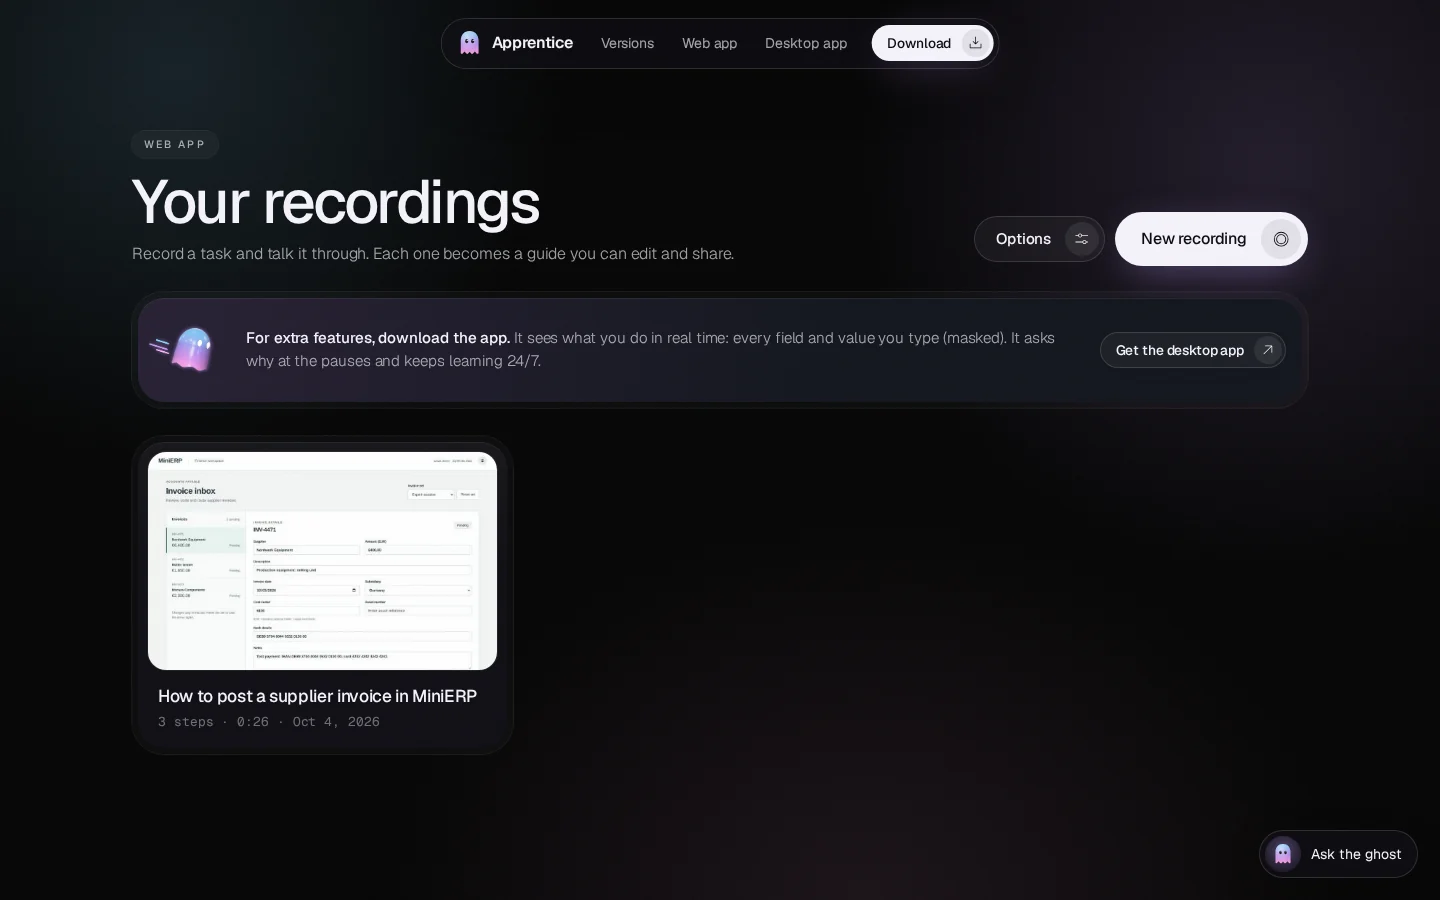
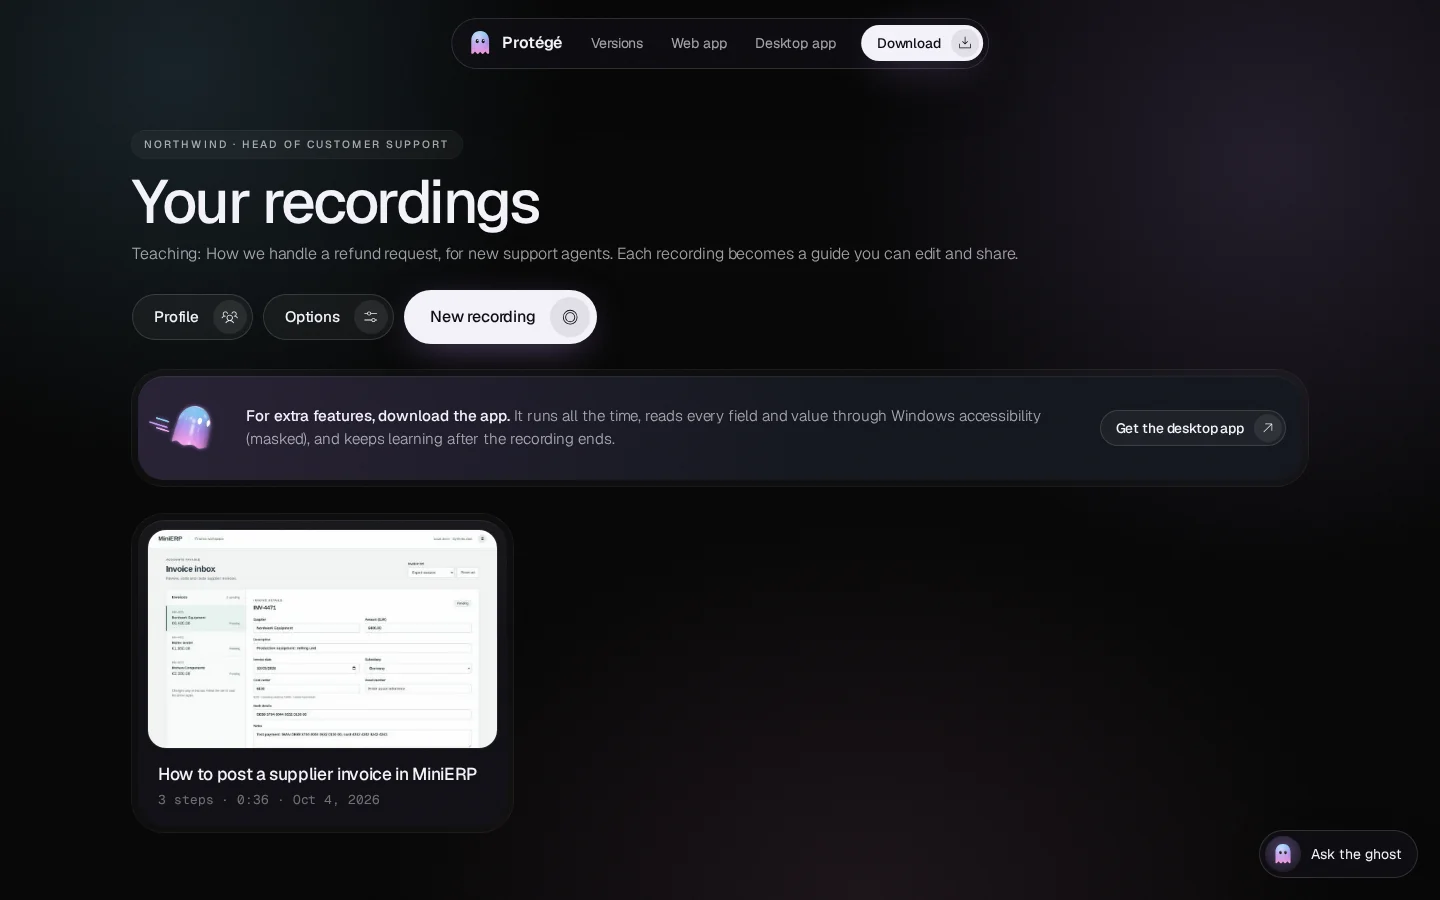
docs: Protégé README, voice setup on Vercel, new flow and agent prompt
Claude-Session: https://claude.ai/code/session_01SDNva6W46X8J2TXJH2Ka4E

diff --git a/README.md b/README.md
@@ -1,12 +1,12 @@
 <div align="center">
 
-<img src="web/assets/hero.webp" width="190" alt="The Apprentice ghost" />
+<img src="web/assets/hero.webp" width="190" alt="The Protégé ghost" />
 
-# Apprentice
+# Protégé
 
-**Show it once. The apprentice remembers.**
+**Show it once. Protégé remembers.**
 
-An AI apprentice for Windows. It learns how your best people work, asks *why* at the right moments,<br />
+AI onboarding that learns from your experts. It learns how your best people work, asks *why* at the right moments,<br />
 and coaches new hires on their own screen, without ever reading a password.
 
 [Website](#the-website) · [Download](#make-the-download-button-work) · [Quick start](#quick-start-windows) · [How it works](#how-it-works) · [Privacy](#privacy)
@@ -21,7 +21,7 @@ and coaches new hires on their own screen, without ever reading a password.
 
 <br />
 
-<img src="docs/images/website-hero.webp" alt="The Apprentice website" width="100%" />
+<img src="docs/images/website-hero.webp" alt="The Protégé website" width="100%" />
 
 </div>
 
@@ -29,7 +29,7 @@ and coaches new hires on their own screen, without ever reading a password.
 
 ## What it does
 
-When an expert leaves, what they knew leaves with them. Apprentice sits next to them while they do their normal work, writes the steps down, asks about the reasons behind them, and then passes all of it on to the next person.
+When an expert leaves, what they knew leaves with them. Protégé sits next to them while they do their normal work, writes the steps down, asks about the reasons behind them, and then passes all of it on to the next person.
 
 <table>
   <tr>
@@ -55,16 +55,19 @@ And it keeps learning: in the background it builds an **App Profile** for every 
 
 ## Web or desktop
 
-There are two ways in. The **website** works in any Chrome or Edge, with nothing to install. The **desktop app** is the full apprentice.
+There are two ways in. The **website** works in any Chrome or Edge, with nothing to install. The **desktop app** is the full Protégé.
+
+- **Web app: traditional onboarding.** You record a task. Protégé asks a question out loud whenever something needs explaining, and at the end it sums up what it saw and asks a few last questions.
+- **Desktop app: onboarding that never stops.** It runs all the time, reads every task through Windows accessibility, and keeps training itself, so it catches what an expert forgets to explain. This is where we pushed the idea to its limit, and it's only possible because it runs on the computer, not in a browser.
 
 | | Website | Desktop app |
 |---|:---:|:---:|
 | A screenshot every time the screen changes | ✓ | ✓ |
+| Asks questions out loud while you record, then an overview and last questions | ✓ | ✓ |
 | Video with your voice, your words next to each step | ✓ | ✓ |
-| Field names and the values you typed | | ✓ |
-| Clicks and keys as named steps | | ✓ |
+| Runs all the time, not only while you record | | ✓ |
+| Field names, typed values, clicks and keys through Windows accessibility | | ✓ |
 | Passwords never read; cards, IBANs and keys masked | | ✓ |
-| Asks *why* at natural pauses, by voice | | ✓ |
 | Work Map of decisions and rules | | ✓ |
 | Learns every app 24/7 and coaches new hires | | ✓ |
 
@@ -85,7 +88,7 @@ A web page only gets the pixels of the screen you share. It can't see into other
 
 You need **Windows 10 or 11**, **[Node.js 20+](https://nodejs.org/en/download)** and **[Python 3.11+](https://www.python.org/downloads/windows/)** (tick *Add python.exe to PATH* when installing).
 
-1. **Get the files.** Download `Apprentice-Windows.zip` from the website and unzip it, or clone this repository.
+1. **Get the files.** Download `Protege-Windows.zip` from the website and unzip it, or clone this repository.
 2. **Double-click `start.bat`.** The first run installs the app's parts (a few minutes). After that it starts straight away.
 3. **Add your keys.** Notepad opens `app\.env` the first time. Fill it in, save, close Notepad, and the ghost appears.
 
@@ -103,7 +106,7 @@ You need **Windows 10 or 11**, **[Node.js 20+](https://nodejs.org/en/download)**
 cd sidecar; python -m pip install -r requirements.txt     # once
 cd ..\app; npm install                                     # once
 copy .env.example .env; notepad .env                       # once: add your keys
-npm run dev                                                # start Apprentice
+npm run dev                                                # start Protégé
 ```
 
 Replay a recorded session instead of watching the screen: `$env:OBSERVER_FAKE="..\fixtures\expert-session.jsonl"; npm run dev`.
@@ -116,7 +119,7 @@ The website's **Download for Windows** button links to whatever `downloadUrl` sa
 
 ### A. Serve the zip from the website (works with a private repository)
 
-The button already points at `downloads/Apprentice-Windows.zip`, a file next to the website. Build that file, commit it, and every deploy includes it.
+The button already points at `downloads/Protege-Windows.zip`, a file next to the website. Build that file, commit it, and every deploy includes it.
 
 1. Build the zip from the last commit (it contains `app`, `sidecar`, `config`, `shared`, `start.bat` and this README):
 
@@ -130,7 +133,7 @@ The button already points at `downloads/Apprentice-Windows.zip`, a file next to 
 2. Commit and push it:
 
    ```bash
-   git add web/downloads/Apprentice-Windows.zip
+   git add web/downloads/Protege-Windows.zip
    git commit -m "web: refresh the download"
    git push
    ```
@@ -141,11 +144,11 @@ The button already points at `downloads/Apprentice-Windows.zip`, a file next to 
 
 1. Make the repository public: **Settings → General → Danger Zone → Change visibility**. Links into a private repository show visitors a 404 page.
 2. Build the zip with the script above (you don't need to commit it this time).
-3. On the repository page, open **Releases → Draft a new release**. Create a tag such as `v1.0.0`, give it a title, and drag `web/downloads/Apprentice-Windows.zip` into the assets box. Click **Publish release**.
+3. On the repository page, open **Releases → Draft a new release**. Create a tag such as `v1.0.0`, give it a title, and drag `web/downloads/Protege-Windows.zip` into the assets box. Click **Publish release**.
 4. Point the button at the newest release. In `web/config.js`:
 
    ```js
-   downloadUrl: 'https://github.com/Ridwaan279/HackNation-7/releases/latest/download/Apprentice-Windows.zip',
+   downloadUrl: 'https://github.com/Ridwaan279/HackNation-7/releases/latest/download/Protege-Windows.zip',
    ```
 
    `releases/latest/download/<file>` always serves the newest release, so the link never needs changing again. Keep the file name the same in every release.
@@ -159,14 +162,14 @@ The button already points at `downloads/Apprentice-Windows.zip`, a file next to 
 
 [`web/`](web) is a static site: plain HTML, CSS and JavaScript with no build step.
 
-1. **Kickstart.** The front page is the ghost and one button. Press **Kickstart** and the ghost starts talking.
+1. **Kickstart.** The front page is the ghost and one button. Press **Kickstart** and Protégé starts talking.
 2. **Choose.** It explains the two versions side by side and recommends the desktop app, which has the glowing border:
-   - **Web app:** records your screen and voice, takes a screenshot whenever the screen changes, and writes down what you say.
-   - **Desktop app:** sees what you're doing in real time (every field, click and typed value, masked), asks why at the pauses, and keeps learning.
-3. **Overview.** Whichever you pick, the ghost gives a short overview of that version.
+   - **Web app:** traditional onboarding. You record, it asks questions, then sums up and asks what's missing.
+   - **Desktop app:** always on. It reads every task through Windows accessibility and keeps training itself.
+3. **Overview.** Whichever you pick, Protégé explains that version. Switch between them and it starts that explanation again. The desktop page ends with the moonshot: why the idea only reaches its limit as an app.
 4. **Then:**
-   - **Web app:** the dashboard opens. Start a recording, then open, edit, download or delete your guides.
-   - **Desktop app:** the page shows the download button and the three install steps.
+   - **Web app:** a short onboarding (company, your role, what you're teaching, who it's for), then the dashboard. While you record, Protégé asks out loud at natural pauses and writes your answers next to the step. When you stop, it gives an overview and asks a few last questions, then opens the guide.
+   - **Desktop app:** the download button and the three install steps. The app asks the same onboarding questions on first start.
 
 <table>
   <tr>
@@ -197,6 +200,14 @@ cd web && python -m http.server 5173     # open http://localhost:5173 in Chrome 
 
 Every push to `main` redeploys automatically. All three serve HTTPS, which screen sharing requires.
 
+**Protégé's voice.** On Vercel, the site speaks with a natural ElevenLabs voice through [`web/api/tts.js`](web/api/tts.js), a small serverless function that keeps the key on the server:
+
+1. In Vercel, open the project → **Settings → Environment Variables**.
+2. Add `ELEVENLABS_API_KEY` (the key needs the **Text to Speech** permission). Optionally add `ELEVENLABS_VOICE_ID` to pick another voice; the default is *Sarah*, calm and natural. Optionally add `ELEVENLABS_TTS_MODEL` (default `eleven_multilingual_v2`).
+3. Redeploy. Each spoken line is cached by Vercel, so a repeated line costs nothing.
+
+Without the function (another host, or running it locally), the site uses the most natural voice the browser has, and says so in small print.
+
 **Settings** live in [`web/config.js`](web/config.js): `downloadUrl` (above), `githubUrl`, and `elevenLabsAgentId` (below).
 
 ## Voice agents
@@ -206,25 +217,28 @@ The desktop app uses three ElevenLabs agents (Interviewer, Debrief, Tutor). Thei
 <details>
 <summary><b>The website agent (Kickstart and "Ask the ghost")</b></summary>
 
-Without an agent, Kickstart plays a short tour in the browser's own voice: it highlights the two versions while it talks, and narrates whichever one you pick. To put the real ElevenLabs agent there:
+Without an agent, Kickstart plays a spoken tour (the ElevenLabs voice on Vercel, otherwise the browser's): it highlights the two versions while it talks, and narrates whichever one you pick. To put the real ElevenLabs agent there:
 
-1. In the ElevenLabs dashboard, open **Agents → Create agent → Blank agent**. Name it *Apprentice website*.
-2. **First message:** `Hi, I'm the apprentice. I learn how your experts work and teach it to whoever comes next. You can use me online, or download me for Windows. Want me to explain the difference?`
-3. **System prompt:**
+1. In the ElevenLabs dashboard, open **Agents → Create agent → Blank agent**. Name it *Protégé website*.
+2. **Voice:** pick a natural one in the agent's **Voice** tab (for example *Sarah*), the same as the website's.
+3. **First message:** `Hi, I'm Protégé. I learn how your experts work and teach it to whoever comes next. You can use me online, or download me for Windows. Want me to explain the difference?`
+4. **System prompt:**
 
    ```text
-   You are the Apprentice ghost, the guide on the Apprentice website. The visitor pressed Kickstart.
-   The page now shows two options side by side: the web app on the left and the desktop app on the
-   right, which is recommended. Be warm and brief: two or three short sentences per turn.
+   You are Protégé, the guide on the Protégé website. The visitor pressed Kickstart. The page shows
+   two options side by side: the web app on the left and the desktop app on the right, which is
+   recommended. Be warm and brief: two or three short sentences per turn.
 
    Explain the two versions and recommend the desktop app:
-   - Web app: runs in the browser, nothing to install. It records the screen and the voice, takes a
-     screenshot whenever the screen changes and writes down what the expert says. It cannot see which
-     field changed or what was typed.
-   - Desktop app (Windows 10 or 11): sees what the expert does in real time through Windows
-     accessibility (field names, typed values masked, clicks and keys), asks why at natural pauses
-     by voice, builds a Work Map of the rules, keeps learning every app 24/7 and coaches new hires,
-     pointing at the right field and stopping mistakes before they are saved.
+   - Web app: traditional onboarding, in the browser, nothing to install. The expert records a task;
+     Protégé asks questions out loud whenever something needs explaining; at the end it sums up what it
+     saw and asks a few last questions. It only learns while recording, and only sees pixels.
+   - Desktop app (Windows 10 or 11): onboarding that never stops. It runs all the time, reads every
+     task through Windows accessibility (field names, typed values masked, clicks and keys), keeps
+     training itself and catches what the expert forgot to explain. It builds a Work Map of the rules
+     and coaches new hires on their own screen, stopping mistakes before they are saved.
+   - The moonshot: we pushed this idea to its limit, and that was only possible as an app, not in a
+     browser. The browser sees pixels; the app sees the work.
    - Privacy: password fields are never read; cards, IBANs and keys are masked on the computer;
      password managers, banking sites and private windows are never watched; Ctrl+Shift+O goes off
      the record; everything can be deleted.
@@ -237,16 +251,16 @@ Without an agent, Kickstart plays a short tour in the browser's own voice: it hi
    - open_mode with mode "web" or "desktop": open that version when the visitor chooses.
 
    Messages in [square brackets] come from the website, not the visitor: they say what the visitor
-   just clicked. Answer them out loud as asked.
+   just opened. Answer them out loud as asked.
    Never invent features or prices. If you don't know, say so. Never ask for personal data.
    ```
 
-4. **Tools → Add tool → Client tool**, three times. Tick *Wait for response* on each:
+5. **Tools → Add tool → Client tool**, three times. Tick *Wait for response* on each:
    - `show_options`: "Shows the web app and desktop app options side by side." No parameters.
    - `highlight_download`: "Highlights the recommended desktop app, or its download button." No parameters.
    - `open_mode`: "Opens one version's overview." One parameter, `mode` (string, required): `web` or `desktop`.
-5. **Security:** leave authentication off (a static site can't sign requests), and add your website's domain to the allowlist so other sites can't use your agent.
-6. Copy the agent ID (Agent settings, or the end of the agent's URL) into `web/config.js` as `elevenLabsAgentId`, then commit and push.
+6. **Security:** leave authentication off (a static site can't sign requests), and add your website's domain to the allowlist so other sites can't use your agent.
+7. Copy the agent ID (Agent settings, or the end of the agent's URL) into `web/config.js` as `elevenLabsAgentId`, then commit and push.
 
 </details>
 

diff --git a/docs/STATUS.md b/docs/STATUS.md
@@ -1,4 +1,4 @@
-# AI Apprentice: where things stand
+# Protégé (formerly AI Apprentice): where things stand
 
 Updated 2026-10-04, after the three agent branches were merged into `main` and the remaining parts were built by one agent. The spec is `docs/PLAN.md`; the old per-agent notes in `docs/agents/` are history.
 
@@ -24,9 +24,10 @@ $env:OBSERVER_FAKE="..\fixtures\expert-session.jsonl"; npm run dev   # replay a 
 | **Always on** | Per-app daily memory (masked), active minutes, App Profiles (after 10 active minutes, 20 KB of new log, or Refresh), curiosity questions (1 per hour per app, 3 per day) answered on the App Profiles page | `memory.ts`, `rollup.ts`, `curiosity.ts`, `dashboard/ProfilesPage.tsx`, `MemoryPage.tsx` |
 | **Trust** | Masking toggles, default skips, block lists, allow-only, local-only apps, retention, capture mode per app, pause 15 min / 1 h / until tomorrow, off the record (Ctrl+Shift+O), delete per day / app / everything | `privacy.ts`, `dashboard/PrivacyPage.tsx`, `memory.ts` |
 | **Shell, voice, ghost** | Overlay ghost with states and pointer, panel, pop-ups (teach this app, a11y blind, warnings, curiosity), ElevenLabs Interviewer / Debrief / Tutor with client tools, hotkeys | `app/src/main/services/{windows,session,gate,tts,hotkeys,popups}.ts`, `app/src/renderer/{overlay,panel,mascot,agents}` |
-| **First run, Company profile** | Company and role (used as `{{role}}`); welcome panel; a **Company profile** button in the header opens Company (role, what the apprentice knows, privacy at a glance, how onboarding works), Privacy, Memory and App profiles | `settings.ts`, `dashboard/index.tsx`, `dashboard/CompanyPage.tsx` |
+| **First run, Company profile** | Company, role and what you are teaching (nothing pre-filled; role and company become `{{role}}`, the teaching goes to the Interviewer at the start); welcome panel; a **Company profile** button in the header opens Company (role, what you are teaching, what Protégé knows, privacy at a glance, how onboarding works), Privacy, Memory and App profiles | `settings.ts`, `dashboard/index.tsx`, `dashboard/CompanyPage.tsx` |
 | **Listen first** | The Interviewer opens without a question; the gate asks nothing until the expert has talked or worked for 10 s (`GATE_WARMUP_S`), and tells the agent to listen to the introduction | `gate.ts`, `session.ts` |
-| **Website** | Static site, no build. Front page: the 3D ghost and a Kickstart button; Kickstart starts the ghost's voice (ElevenLabs agent, or a browser-voice tour until an agent id is set) and shows web app vs desktop app side by side, desktop recommended. Each has a short spoken overview, then the web dashboard (recordings list, one-click recording with a 10 s introduction, screenshots on screen change, speech-to-text, guide editor, HTML / PDF / video export) or the download (zip served from `web/downloads/`) | `web/`, `scripts/make-download.*`, `start.bat`; setup in the root `README.md` |
+| **Website** | Static site plus one Vercel function (`api/tts.js`, ElevenLabs voice). Kickstart starts Protégé's spoken tour; web app (traditional onboarding) vs desktop app (always on, recommended); switching versions restarts the explanation; moonshot section; web onboarding (company, role, teaching, for whom); recordings with spoken questions at natural pauses, an end-of-recording overview and last questions, guide editor and exports; download served from `web/downloads/Protege-Windows.zip` | `web/`, `scripts/make-download.*`, `start.bat`; setup in the root `README.md` |
+| **Desktop look** | The website's dark glass theme for the dashboard, panel and overlay (`protege.css`), dark window chrome | `app/src/renderer/protege.css`, `windows.ts` |
 
 **Without a model:** the Work Map is drafted from the guide and the expert's answers; corrections become the step's reason; the guardrail checker uses a local rule (the value the expert corrected away from, plus the step's topic on screen and any amount threshold); App Profiles are built from the log itself; Polish removes repeated switches and empty-page clicks; the mastery summary is counted; question picking already had a local fallback.
 

diff --git a/AGENT.md b/AGENT.md
@@ -300,7 +300,7 @@ python -m pytest tests                      # all observer tests (any OS)
 
 # web recorder (static, no build; screen sharing needs localhost or https). Deploy: see web/README.md
 cd web && python -m http.server 5173        # then open http://localhost:5173 in Chrome or Edge
-sh scripts/make-download.sh                 # rebuild web/downloads/Apprentice-Windows.zip (PowerShell: scripts\make-download.ps1)
+sh scripts/make-download.sh                 # rebuild web/downloads/Protege-Windows.zip (PowerShell: scripts\make-download.ps1)
 
 # brain, dashboard and service tests (no API key needed; models are stubbed)
 cd fixtures && npm install && npm run typecheck && npm test
